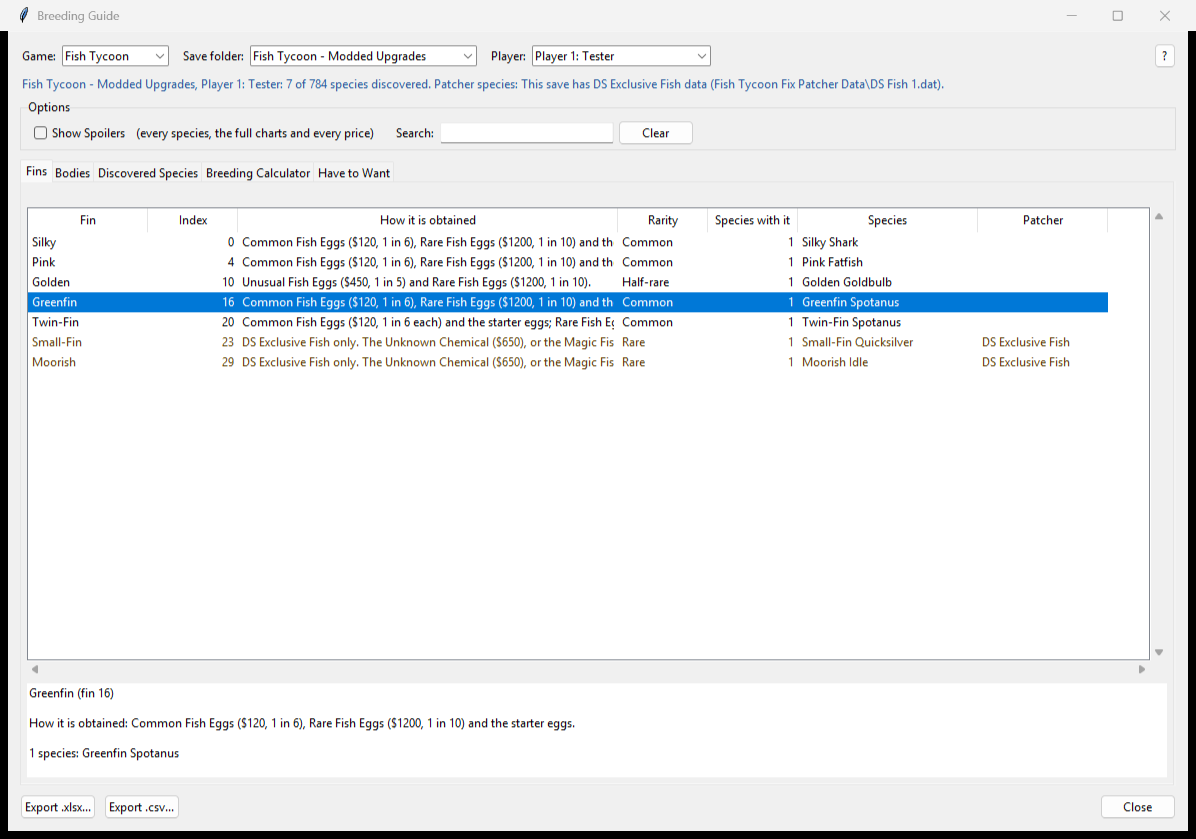
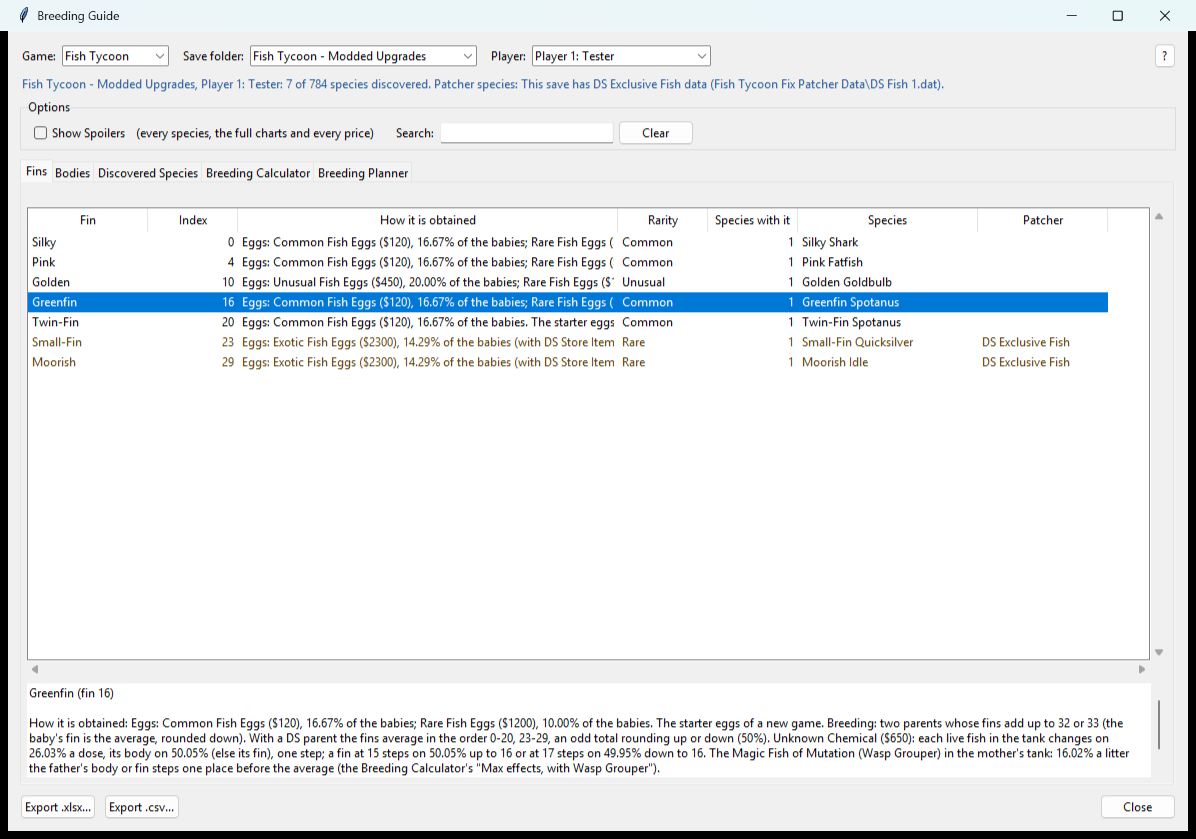
Breeding Guide: tests, docs and screenshots for round 2
Unusual (the game's word) for the middle Fish tier, Plant seed packet words; a scrolling
details pane in every tab; spoilers off lists only discovered species; three effects
choices (0 / Max without / Max with Wasp Grouper or Mutation Liquid); Have to Want renamed
Breeding Planner; every part's how-to-obtain text proven against the game's code.

diff --git a/tests/test_breeding_guide.py b/tests/test_breeding_guide.py
@@ -240,6 +240,10 @@ class SheetTests(unittest.TestCase):
             self.assertTrue(bg.detect_extras("fish", saves, 2, [root / "Games"])[0])
 
 
+def bg_root() -> Path:
+    return ROOT
+
+
 def tk_root():
     """A hidden Tk root, or None with no display. Tk's start-up now and then fails once on
     Windows right after another root was destroyed, so it gets three tries."""
@@ -525,6 +529,56 @@ class WindowTests(unittest.TestCase):
             bg.MODEL_MODULES.clear()
             bg.MODEL_MODULES.update(saved)
             bg._MODELS.clear()
+
+    def test_every_tab_has_a_scrolling_details_pane(self) -> None:
+        """Both games, every tab: a ttk.Scrollbar beside the details pane (the Tools tab's
+        style), and long text scrolls."""
+        for game in ("Fish Tycoon", "Plant Tycoon"):
+            self.guide.game_var.set(game)
+            self.guide.spoilers_var.set(True)
+            self.root.update()
+            for sheet_id in self.guide.tab_ids:
+                self.select(self.tabs()[self.guide.tab_ids.index(sheet_id)])
+                text = self.guide.details[sheet_id]
+                self.assertIsInstance(text.scrollbar, tk.ttk.Scrollbar, sheet_id)
+                self.assertEqual(str(text.scrollbar.cget("orient")), "vertical")
+                self.guide._set_details(sheet_id, "\n".join(f"line {i}" for i in range(200)))
+                self.root.update()
+                self.assertLess(text.yview()[1], 1.0, sheet_id)
+                text.yview_scroll(20, "units")
+                self.root.update()
+                self.assertGreater(text.yview()[0], 0.0, sheet_id)
+                self.assertAlmostEqual(text.scrollbar.get()[0], text.yview()[0], places=3)
+
+    def test_three_effects_buttons_on_both_tabs_in_both_games(self) -> None:
+        for game, mutation in (("Fish Tycoon", "Wasp Grouper"), ("Plant Tycoon", "Mutation Liquid")):
+            self.guide.game_var.set(game)
+            self.guide.spoilers_var.set(True)
+            self.root.update()
+            for buttons in (self.guide.calc_effect_buttons, self.guide.plan_effect_buttons):
+                self.assertEqual([b.cget("text") for b in buttons],
+                                 ["0 effects", "Max effects, without", f"Max effects, with {mutation}"])
+                self.assertEqual([b.cget("value") for b in buttons], ["none", "max", "max_mutation"])
+            tree = self.guide.trees["calculator"]
+            counts = {}
+            for value in ("none", "max", "max_mutation"):
+                self.guide.calc_effects_var.set(value)
+                counts[value] = [tree.item(i, "values") for i in tree.get_children()]
+                pane = self.guide.details["calculator"].get("1.0", "end")
+                self.assertEqual(" ".join(self.guide.model.effects_text(value)), pane.strip())
+            self.assertIn(mutation, " ".join(self.guide.model.effects_text("max_mutation")))
+            self.assertEqual(counts["none"], counts["max"])
+            self.assertNotEqual(counts["max"], counts["max_mutation"])
+            self.guide.calc_effects_var.set("none")
+
+    def test_the_planner_tab_is_renamed_everywhere(self) -> None:
+        self.assertIn("Breeding Planner", self.tabs())
+        self.assertNotIn("Have to Want", self.tabs())
+        self.assertIn("Breeding Planner", " ".join(bg.HELP[1]))
+        for name in ("README.md", "How to Use.txt", "CHANGELOG.md"):
+            text = (bg_root() / name).read_text(encoding="utf-8")
+            self.assertIn("Breeding Planner", text, name)
+            self.assertNotIn("Have to Want", text, name)
 
     def test_fits_the_screen(self) -> None:
         window = self.guide.window

diff --git a/tests/test_breeding_fish.py b/tests/test_breeding_fish.py
@@ -351,13 +351,14 @@ class EmulatedTests(unittest.TestCase):
         weight = {25: bf.P_CHEMICAL, 26: 1 - bf.P_CHEMICAL}
         half = {49: bf.P_BODY, 50: 1 - bf.P_BODY}
         cases = [(b, 5) for b in bf.PC_GENES] + [(5, f) for f in bf.PC_GENES] + [(0, 20), (20, 0), (20, 20), (0, 0)]
+        state, holder = self.emu.alloc(0x1E510), self.emu.alloc(0x40)       # reused: the heap is small
+        self.emu.write32(holder + 0x34, state)
         for body, fin in cases:
             got: dict[tuple[int, int], float] = {}
             for r1 in (25, 26):
                 for r2 in ((49, 50) if r1 == 25 else (None,)):
                     for r3 in ((49, 50) if r1 == 25 else (None,)):
-                        state, holder = self.emu.alloc(0x1E510), self.emu.alloc(0x40)
-                        self.emu.write32(holder + 0x34, state)
+                        self.emu.uc.mem_write(state, bytes(0x1E510))
                         fish = state + 0x390
                         self.emu.write32(fish, 1)
                         self.emu.write32(fish + 0x3C, 100)

diff --git a/tests/test_breeding_plant.py b/tests/test_breeding_plant.py
@@ -389,7 +389,7 @@ class GameTablesTests(unittest.TestCase):
         self.assertEqual((code[:2], struct.unpack_from("<II", code, 2)), (b"\xC7\x81", (0x8C8 + 7 * 0x20, 1000)))
         self.assertEqual(B.MUTATION_LIQUID_PRICE, 1000)
         for word, (address, text) in B.RARITY_STRINGS.items():
-            self.assertEqual(emu.cstring(address).decode("latin-1"), text)
+            self.assertEqual(emu.cstring(address).decode("latin-1"), text + "\n")      # the store's title line
             self.assertEqual(text, f"{word} Seeds")
 
     def test_mutation_liquid(self) -> None:

diff --git a/docs/breeding-guide-interface.md b/docs/breeding-guide-interface.md
@@ -26,7 +26,8 @@ class Species:
     name: str                    # the game's own species name
     parts: tuple[Part, Part]
     patcher: bool
-    rarity: str                  # the game's class/rarity (e.g. Plant class A-D)
+    rarity: str                  # the rarer part's rarity, in the game's words (Fish: Common / Unusual /
+                                 # Rare; Plant: Common / Endangered / Extinct seed packets, Legendary)
     value: int                   # the game's base value V
 
 @dataclass(frozen=True)
@@ -41,18 +42,27 @@ class Model:
     def parts(self, kind: str) -> list[Part]: ...
     def species(self) -> list[Species]: ...       # every species, the patcher ones only when `extras` is on
     def children(self, a: tuple[int, int], b: tuple[int, int], effects: str) -> list[tuple[tuple[int, int], float]]:
-        """Every child two parents can give, with its probability (sums to 1), by the game's rule;
-        `effects` "none" or "max" (magic fish/plants, chemicals that change breeding)."""
+        """Every child two parents can give, with its probability (sums to 1), by the game's rule.
+        `effects` is "none" (no effects), "max" (every other effect at its best, no mutation
+        chance) or "max_mutation" (max plus the mutation: Fish, a Wasp Grouper in the mother's
+        tank; Plant, the seed after one Mutation Liquid dose)."""
     def ways_to_breed(self, key: tuple[int, int], effects: str, limit: int = 20,
                       allowed: set[tuple[int, int]] | None = None) -> list[tuple[tuple[int, int], tuple[int, int], float]]:
         """Parent pairs that can give `key`, best odds first, cut to `limit`. With `allowed`, only
         parents in it are used, filtered before ranking and cutting (the spoiler-free view)."""
-    def plan(self, have: list[tuple[int, int]], want: tuple[int, int], effects: str) -> list[dict]:
+    def plan(self, have: list[tuple[int, int]], want: tuple[int, int], effects: str,
+             allowed: set[tuple[int, int]] | None = None) -> list[dict]:
         """The shortest breeding chain from the species in `have` to `want`: steps of
-        {parents: (a, b), child: key, odds: float}; [] when impossible."""
-    def prices(self, key: tuple[int, int], effects: str) -> Prices: ...
+        {parents: (a, b), child: key, odds: float}; [] when impossible. With `allowed`, every
+        species the chain makes is in it (the spoiler-free planner: discovered species only)."""
+    def prices(self, key: tuple[int, int], effects: str) -> Prices:
+        """No mutation changes a price, so "max_mutation" gives the "max" prices."""
+    effects_choices: tuple[tuple[str, str], ...]  # ("none", "0 effects"), ("max", "Max effects, without"),
+                                                  # ("max_mutation", "Max effects, with Wasp Grouper" / "... Mutation Liquid")
+    def effects_text(self, effects: str) -> list[str]:
+        """What an effects choice assumes, in words."""
     def effects_max(self) -> list[str]:
-        """What "max effects" turns on, in words (each magic fish/plant, chemical, research, growth...)."""
+        """effects_text("max_mutation")."""
     def discovered(self, save_folder, slot: int) -> set[tuple[int, int]]:
         """The species this save has discovered: read-only, never writes the save."""
 

diff --git a/README.md b/README.md
@@ -317,13 +317,23 @@ folder never fails with "path too long".
   - a sheet per part (Fish Tycoon: Fins and Bodies; Plant Tycoon: Flowers and
     Foliage): how each is obtained, its rarity and the species that have it;
   - the species: the pairs of parts that breed each one, its base value, and
-    two prices each with 0 effects and with max effects: the best asking
-    price per day and the highest price that still sells;
+    two prices each with 0 effects and with Max effects: the best asking
+    price per day and the highest price that still sells (no mutation changes
+    a price);
   - a Breeding Calculator (two parents: every child and its exact odds) and
-    Have to Want (the shortest breeding chain from the species you have to the
-    one you want).
+    the Breeding Planner (the shortest breeding chain from the species you
+    have to the one you want), each with three effects choices: 0 effects,
+    Max effects without the mutation, and Max effects with it (the Wasp
+    Grouper in Fish Tycoon, Mutation Liquid in Plant Tycoon).
 
-  It opens on the save's discovered species and shows only what they reveal;
+  Rarities use the games' own words: Common, Unusual and Rare in Fish Tycoon
+  (as its Common and Unusual Fish Eggs), Common, Endangered and Extinct (the
+  seed packets) in Plant Tycoon, Legendary for the Unused Flowers. Every
+  "how it is obtained" quotes the exact odds from the game's code. A
+  scrolling pane under each sheet shows the picked row's details.
+
+  It opens on the species the save has discovered and shows only those and
+  their parts (parent suggestions and the planner use only them too);
   **Show Spoilers** (under Options, remembered) shows every species, the full
   charts and every price. The patcher's own species (DS Exclusive Fish,
   Unused Flowers) appear only when the save's game copy was patched with that

diff --git a/CHANGELOG.md b/CHANGELOG.md
@@ -28,9 +28,21 @@ flowers and a store Upgrades page), bigger tanks, a Tools tab, and fixes.
   per part (Fish: Fins and Bodies; Plant: Flowers and Foliage) with how each
   is obtained, its rarity and its species; the species with the pairs that
   breed them, the best price per day and the highest price that sells, each
-  with 0 and with max effects; a Breeding Calculator and a Have to Want
-  planner. It reads the chosen save and player only, opens on the discovered
-  species, and Show Spoilers (remembered) shows everything. DS Exclusive Fish
+  with 0 and with Max effects; a Breeding Calculator and a Breeding Planner,
+  each with three effects choices: 0 effects, Max effects without the
+  mutation, and Max effects with it (Fish: "with Wasp Grouper"; Plant: "with
+  Mutation Liquid", the seed after one dose); no mutation changes a price.
+  Rarities are in the games' own words: Fish Tycoon's Common, Unusual
+  (formerly shown as "Half-rare") and Rare, Plant Tycoon's Common,
+  Endangered and Extinct seed packets, Legendary for the Unused Flowers.
+  Every part's "how it is obtained" gives each route's exact odds and price
+  from the game's code (eggs, starter eggs, Unknown Chemical, seed packets,
+  Mutation Liquid, Legendary and Exotic eggs), checked by emulation. A
+  scrolling details pane sits under every sheet. It reads the chosen save
+  and player only, opens on the species that save has discovered (each
+  species' own discovered flag; a species merely made of seen parts is not
+  listed, suggested or planned through), and Show Spoilers (remembered)
+  shows everything. DS Exclusive Fish
   and Unused Flowers species appear only for a copy patched with them.
   Export to .xlsx (written with the standard library) or .csv. The Fish
   Tycoon rules and prices are checked against the vanilla executable in
